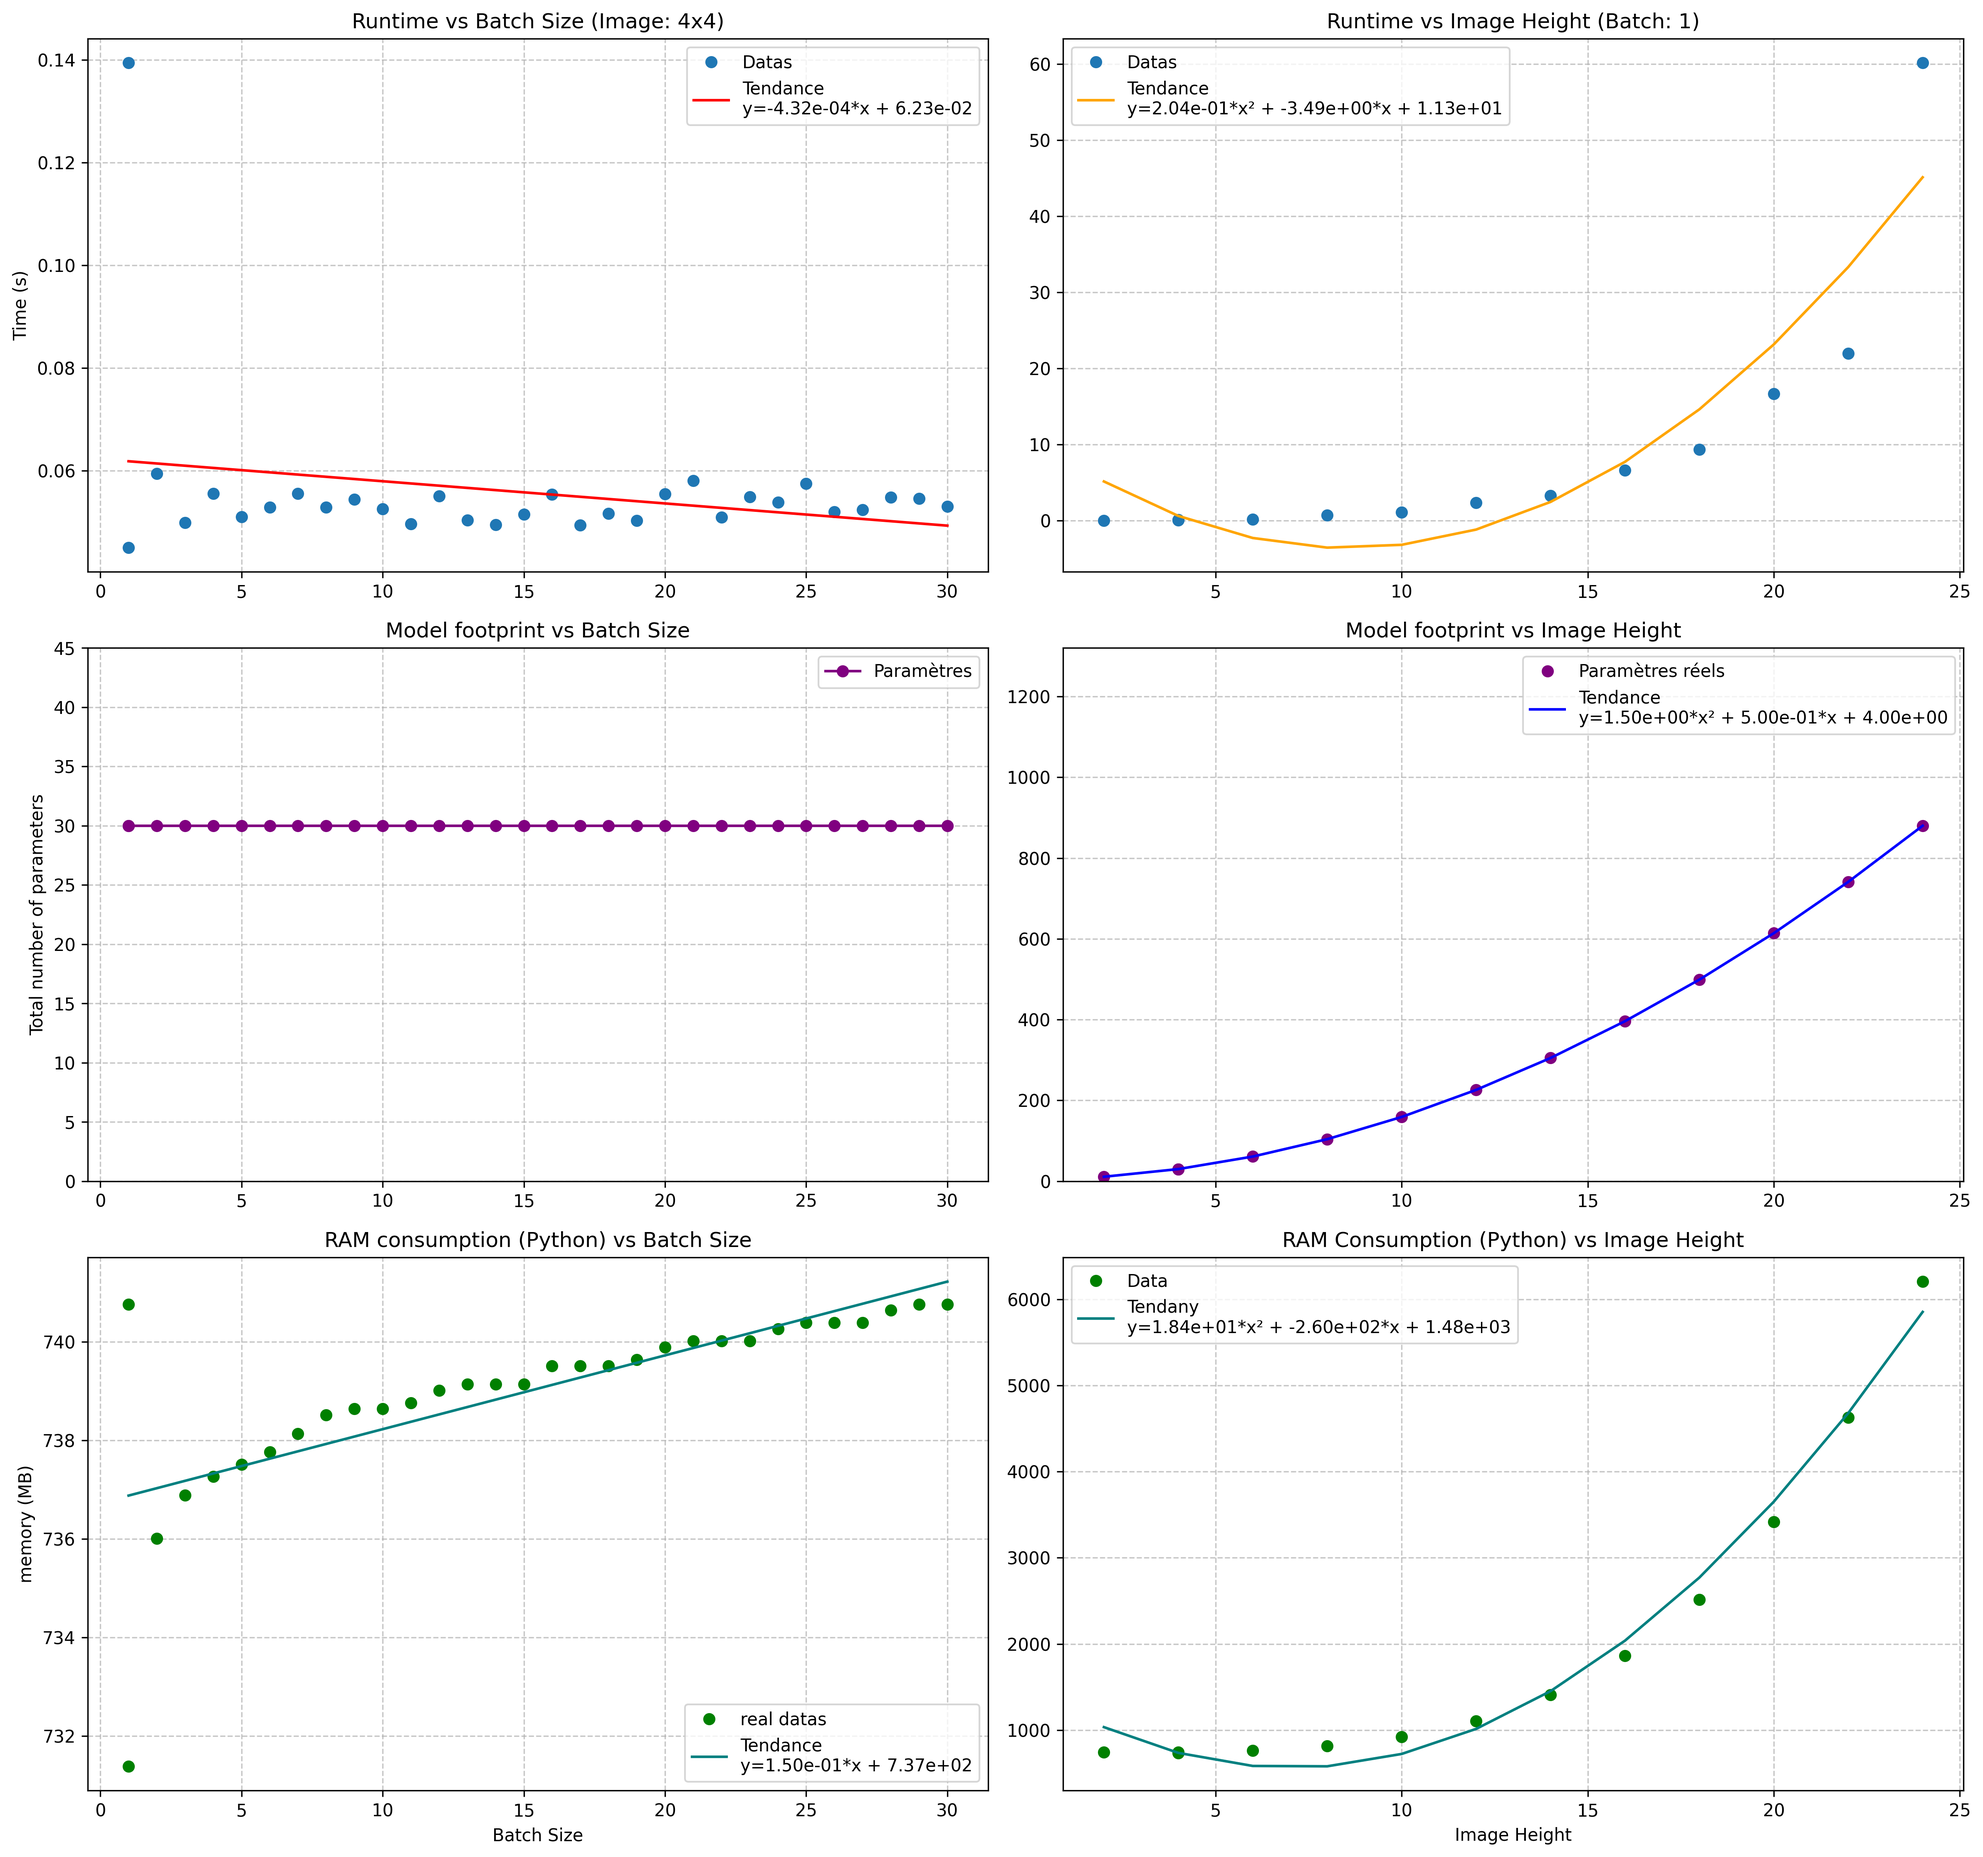
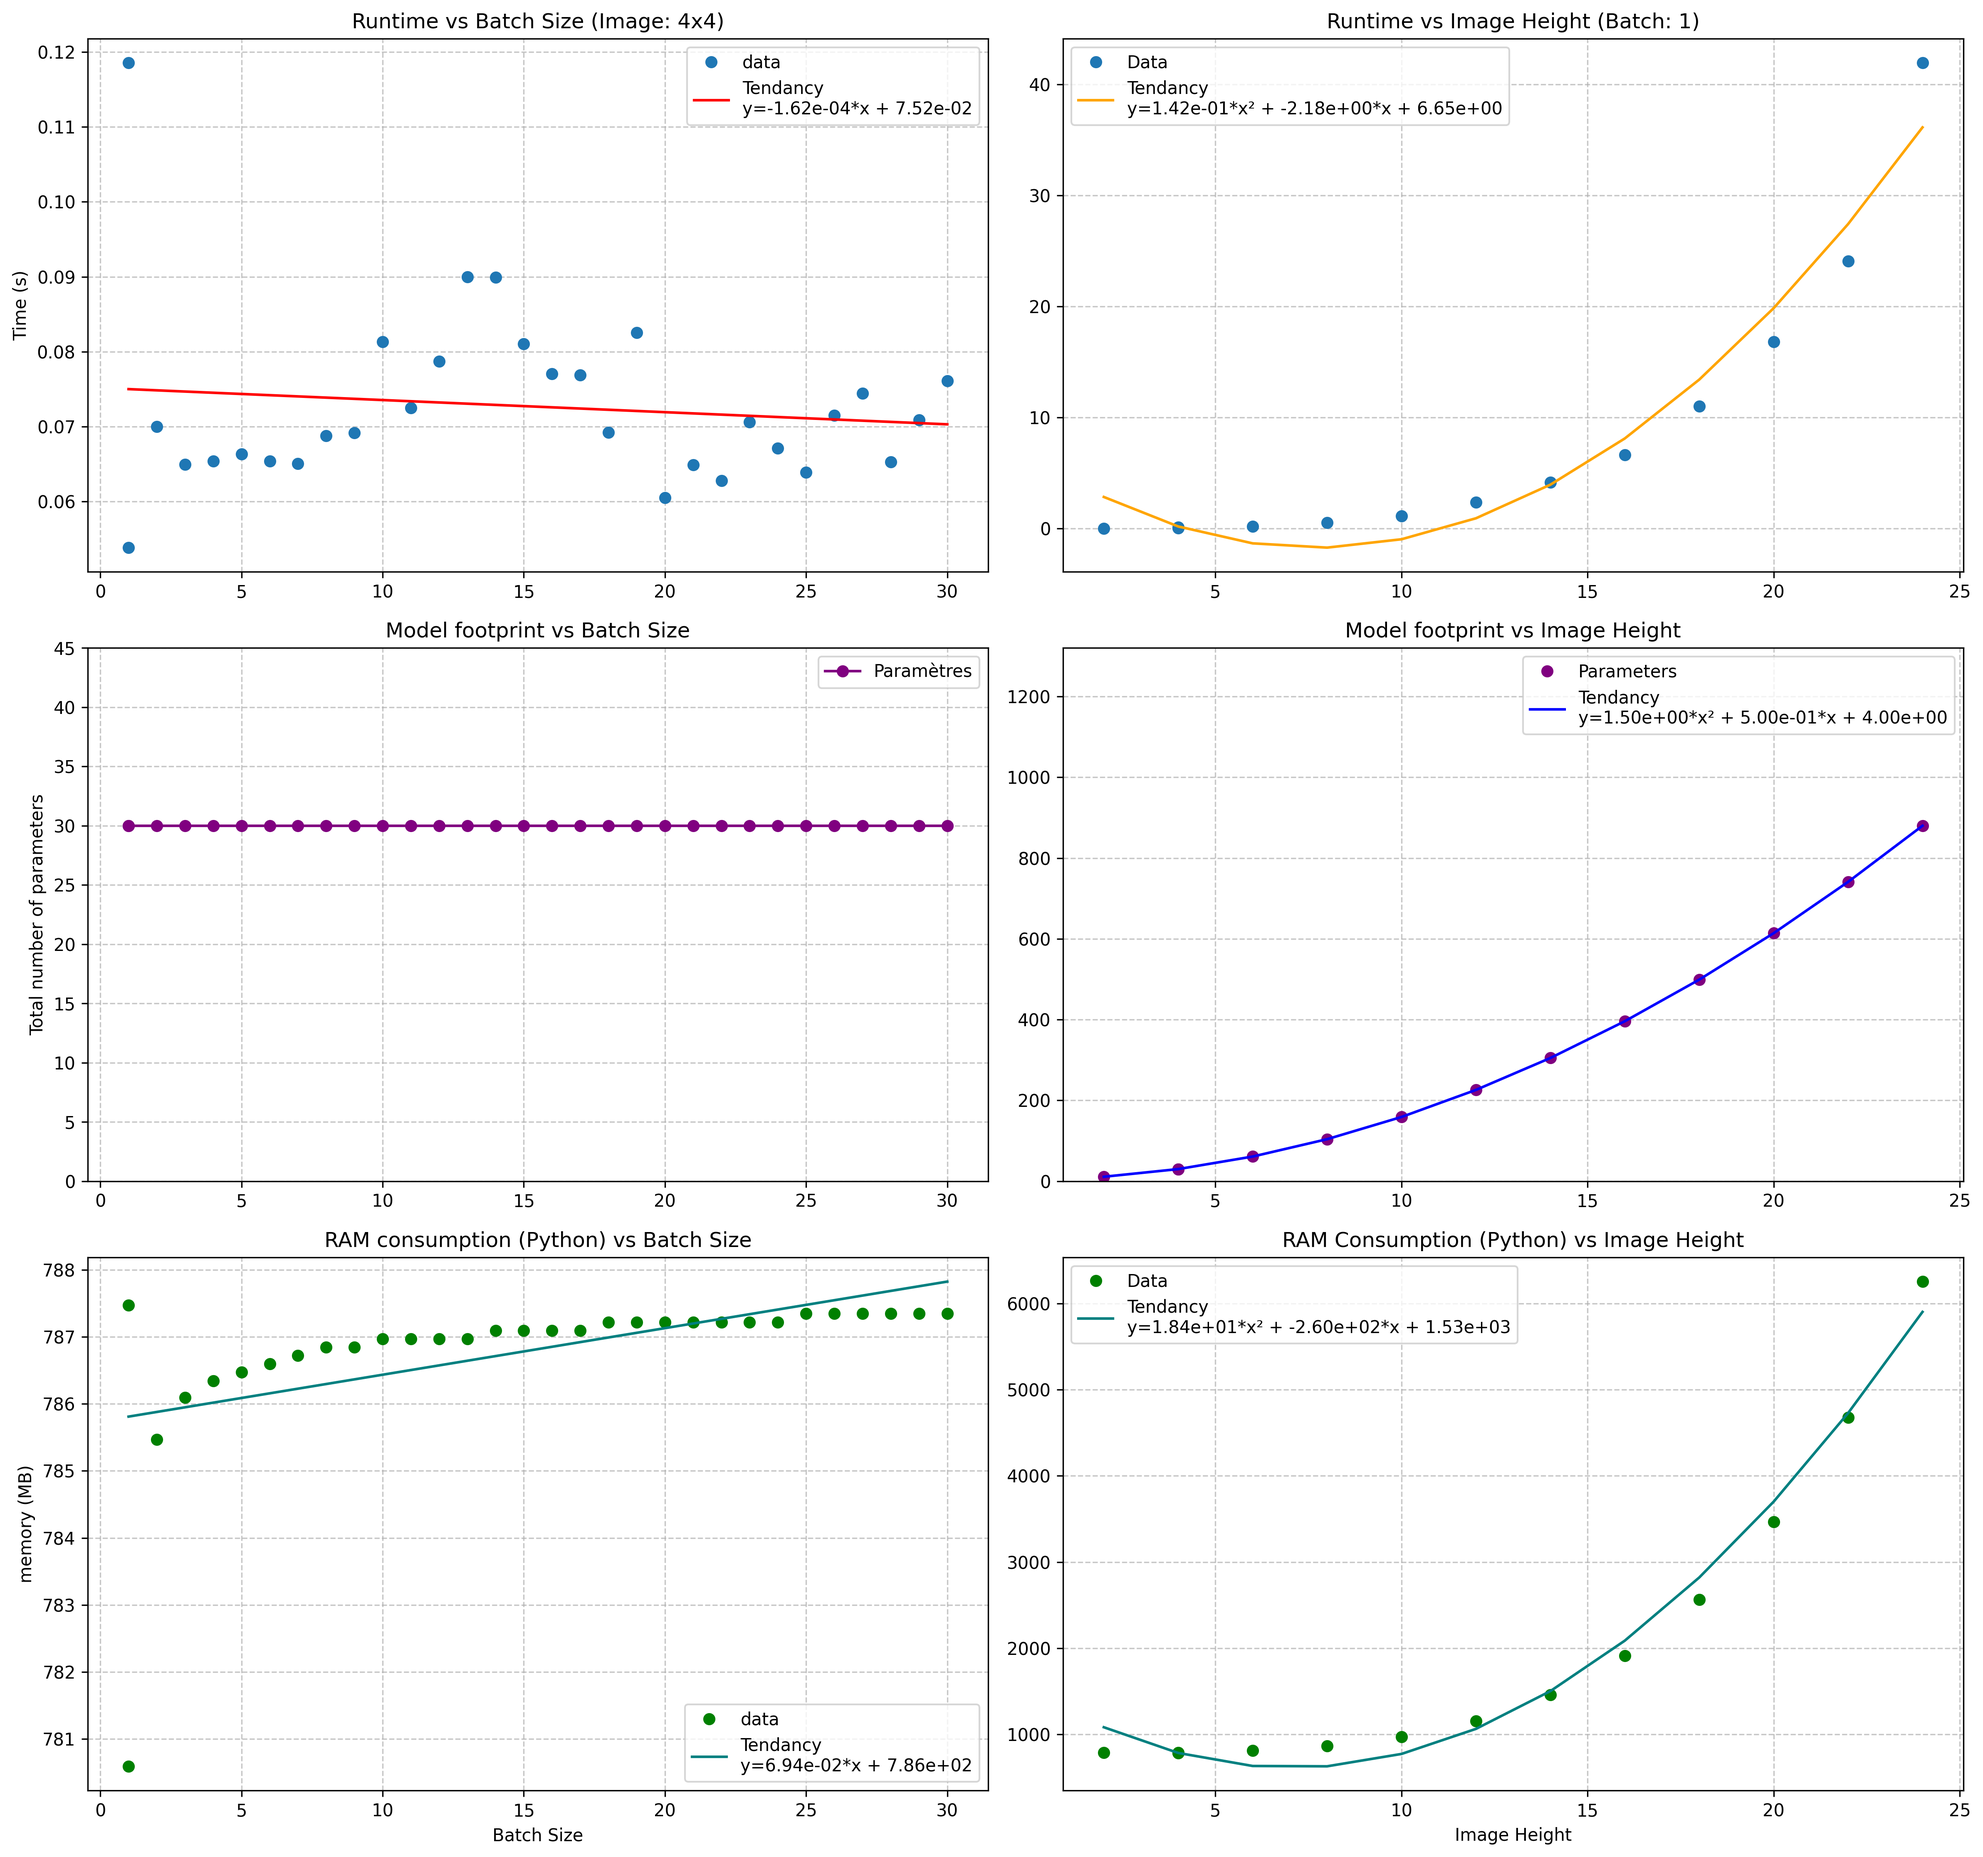
scaling study of qcnn, error small corrections

diff --git a/tests/models/test_qcnn.py b/tests/models/test_qcnn.py
@@ -87,8 +87,6 @@ def test_qcnn_basic_api():
 
     with pytest.raises(TypeError, match="num_classes must have int type"):
         QCNNClassifier(accepted_input_shape, float_num_classes_v2)
-    with pytest.warns(UserWarning, match="Too many dimensions for QCNN, the program may crash"):
-        QCNNClassifier((30, 30), 3)
 
     assert qcnn_classifier.input_shape == accepted_input_shape
     assert qcnn_classifier.num_classes == accepted_num_classes
@@ -104,12 +102,12 @@ def test_qcnn_basic_api():
     )
     with pytest.raises(AttributeError):
         qcnn_classifier_from_list.input_shape = (2, 2)
-    with pytest.warns(UserWarning, match="Too many dimensions for QCNN, the program may crash"):
-        qcnn_classifier_above_former_limit = QCNNClassifier(
-            input_shape_above_former_limit,
-            accepted_num_classes,
-            [QCNNClassifier.QDense()],
-        )
+    
+    qcnn_classifier_above_former_limit = QCNNClassifier(
+        input_shape_above_former_limit,
+        accepted_num_classes,
+        [QCNNClassifier.QDense()],
+    )
     assert (
         qcnn_classifier_above_former_limit.input_shape == input_shape_above_former_limit
     )
@@ -793,6 +791,3 @@ def test_qcnn_state_dict_round_trip_with_export_config():
 
     assert torch.allclose(restored_logits, expected_logits, atol=1e-6, rtol=1e-6)
 
-def test_qcnn_input_shape_warning():
-    with pytest.warns(UserWarning, match="Too many dimensions for QCNN, the program may crash"):
-        QCNNClassifier((30, 30), 3)

diff --git a/merlin/models/qcnn.py b/merlin/models/qcnn.py
@@ -142,12 +142,6 @@ class QCNNClassifier(torch.nn.Module):
             self._build_amplitude_basis_indices(),
             persistent=False,
         )
-        if input_shape[0] * input_shape[1] >= 576:
-            warnings.warn(
-                "Too many dimensions for QCNN, the program may crash",
-                UserWarning,
-                stacklevel=2,
-            )
 
     @property
     def input_shape(self) -> tuple[int, int]:

diff --git a/benchmarks/QCNN_scaling_study_benchmark.py b/benchmarks/QCNN_scaling_study_benchmark.py
@@ -6,7 +6,7 @@ import psutil
 from merlin.models.qcnn import QCNNClassifier 
 
 
-log_dir = "./docs/source/quantum_expert_area/input_shape_logs/"
+log_dir = "./benchmarks"
 os.makedirs(log_dir, exist_ok=True)
 csv_filename = os.path.join(log_dir, "scaling_study_benchmark.csv")
 

diff --git a/docs/source/performance/scaling_study_of_qcnn.rst b/docs/source/performance/scaling_study_of_qcnn.rst
@@ -24,8 +24,8 @@ must be observed during configuration:
 
 * **Batch Size**: The ``batch_size`` can safely be scaled beyond **100**, as its 
   overall impact on performance overhead remains minor.
-* **Input Dimension**: The input dimension is strictly capped at **24** to 
-  avoid system memory crashes.
+* **Input Dimension**: The ``input dimension`` is not capped, however, we recommand
+to the user to avoid going above **24** if it is possible.
 
 Here are the different graphs representing the scaling:
 

diff --git a/docs/source/performance/index.rst b/docs/source/performance/index.rst
@@ -30,3 +30,15 @@ Models Performance
    :data: _data/galleries/performance/models.json
    :columns: 2
    :contour-color: #5648ED
+
+Scaling study of QCNN
+=========================
+.. toctree::
+   :hidden:
+   :maxdepth: 1
+
+   scaling_study_of_qcnn
+
+
+.. merlin-gallery::
+   :data: _data/galleries/quantum_expert/scaling_study.json

diff --git a/docs/source/user_guide/models/qcnn.rst b/docs/source/user_guide/models/qcnn.rst
@@ -223,6 +223,10 @@ regular PyTorch workflow.
    loss.backward()
    optimizer.step()
 
+
+Be advised that RAM consumption exhibits quadratic growth relative to the input size. 
+Exceeding dimensions of (24,24) can lead to performance degradation or system crashes.
+
 Examples and References
 -----------------------
 

diff --git a/docs/source/quantum_expert_area/index.rst b/docs/source/quantum_expert_area/index.rst
@@ -85,15 +85,4 @@ Quantum Expert Area Pages
    :maxdepth: 1
 
    building_intuition
-
-Scaling study of QCNN
-=========================
-.. toctree::
-   :hidden:
-   :maxdepth: 1
-
-   scaling_study_of_qcnn
-
-
-.. merlin-gallery::
-   :data: _data/galleries/quantum_expert/scaling_study.json
+   
